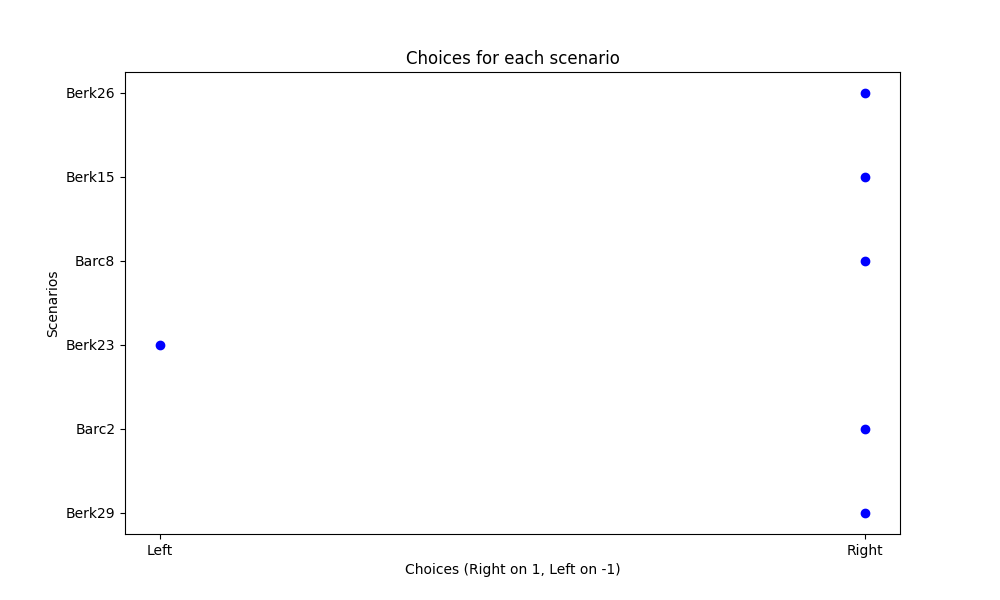
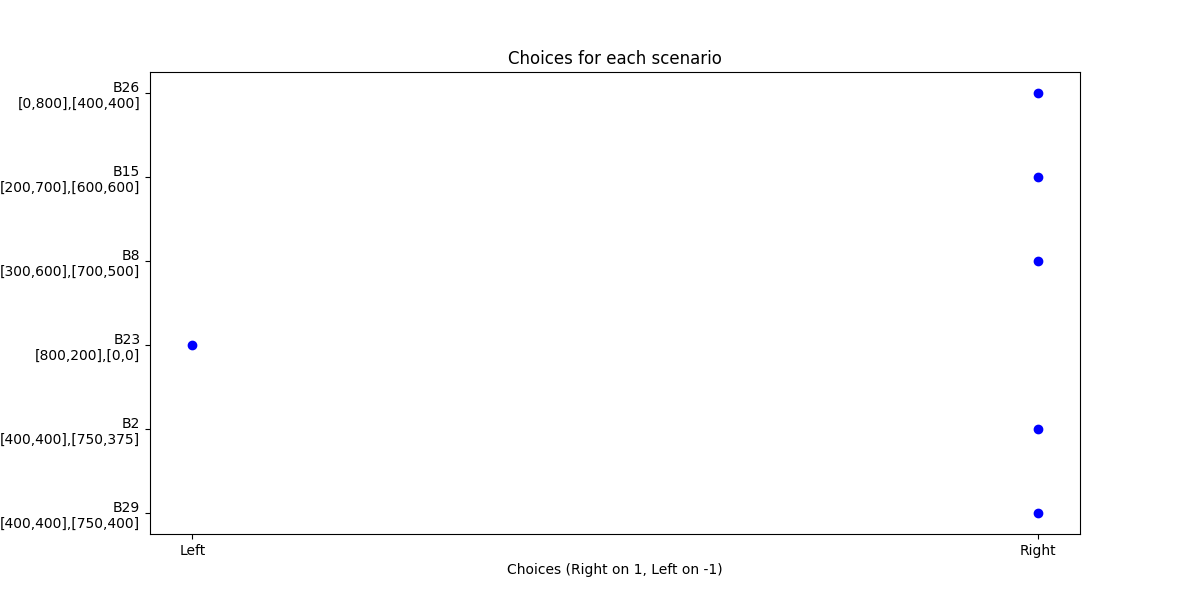
v1

diff --git a/economic_agents/charness_rabin.py b/economic_agents/charness_rabin.py
@@ -1,4 +1,4 @@
-from economic_agents.open_ai import OpenAI
+from .open_ai import OpenAI
 import matplotlib.pyplot as plt
 
 class CharnessRabin:
@@ -18,12 +18,12 @@ class CharnessRabin:
         ] 
         self.personality_choice = personality
         self.scenarios = {
-            f"Berk29_[{400},{400}]_[{750},{400}]": ((400, 400), (750, 400)),
-            f"Barc2_[{400},{400}]_[{750},{375}]": ((400, 400), (750, 375)),
-            f"Berk23_[{800},{200}]_[{0},{0}]": ((800, 200), (0, 0)),
-            f"Barc8_[{300},{600}]_[{700},{500}]": ((300, 600), (700, 500)),
-            f"Berk15_[{200},{700}]_[{600},{600}]": ((200, 700), (600, 600)),
-            f"Berk26_[{0},{800}]_[{400},{400}]": ((0, 800), (400, 400))
+            "B29\n[400,400],[750,400]": ((400, 400), (750, 400)),
+            "B2\n[400,400],[750,375]": ((400, 400), (750, 375)),
+            "B23\n[800,200],[0,0]": ((800, 200), (0, 0)),
+            "B8\n[300,600],[700,500]": ((300, 600), (700, 500)),
+            "B15\n[200,700],[600,600]": ((200, 700), (600, 600)),
+            "B26\n[0,800],[400,400]": ((0, 800), (400, 400))
         }
 
     def play(self):
@@ -47,7 +47,7 @@ class CharnessRabin:
     def create_plot(self, results):
         scenarios = list(results.keys())
         choices = [1 if choice == 'Right' else -1 for choice in results.values()]
-        plt.figure(figsize=(10, 6))
+        plt.figure(figsize=(12, 6))
         plt.scatter(choices, scenarios, color='blue')
         plt.xlabel('Choices (Right on 1, Left on -1)')
         plt.ylabel('Scenarios')
@@ -55,8 +55,7 @@ class CharnessRabin:
         plt.xticks([-1, 1], ['Left', 'Right'])
         plt.savefig('charness_rabin_plot.png')
 
-if __name__ == "__main__":
-    game = CharnessRabin("key", "gpt-3.5-turbo",0)
-    results = game.play()
-    print(results)
-    plot = game.create_plot(results)
+    def __call__(self):
+        results = self.play()
+        self.create_plot(results)
+        return results

diff --git a/experiments.py b/experiments.py
@@ -1,28 +1,4 @@
-scenarios = dict({
-    "Berk29": ((400, 400), (750, 400)),
-    "Barc2": ((400, 400), (750, 375)),
-    "Berk23": ((800, 200), (0, 0)),
-    "Barc8": ((300, 600), (700, 500)),
-    "Berk15": ((200, 700), (600, 600)),
-    "Berk26":((0, 800), (400, 400))
-    })
+import economic_agents
 
-def play():
-    #store results left/right
-    results = {}
-    #iter over all scenarios and send requests to openai
-    for scenario, allocations in scenarios.items():
-        left_a, left_b = allocations[0]
-        right_a, right_b = allocations[1]
-        print(scenario)
-        print(left_a)
-        print(left_b)
-        print(right_a)
-        print(right_b)
-        break
-
-
-
-
-
-play()
+game = economic_agents.CharnessRabin("sk-", "gpt-3.5-turbo", 0)
+results = game()

diff --git a/economic_agents/setup.py b/economic_agents/setup.py
@@ -1,0 +1,14 @@
+from setuptools import setup, find_packages
+
+setup(
+    name='economic_agents',
+    version='0.1',
+    description='A Python package for the paper "Large Language Models as Simulated Economic Agents: What Can We Learn from Homo Silicus?"',
+    author='Max Hager',
+    author_email='maxhager28@gmail.com',
+    packages=find_packages(),
+    install_requires=[
+        'openai',
+        'matplotlib'
+    ],
+)

diff --git a/economic_agents/open_ai.py b/economic_agents/open_ai.py
@@ -1,9 +1,4 @@
 import openai
-import logging 
-
-logging.basicConfig(level=logging.INFO, format='%(asctime)s - %(levelname)s - %(message)s')
-logger = logging.getLogger(__name__)
-
 
 class OpenAI:
     def __init__(self, key, model, temperature=0.0):

diff --git a/economic_agents/__init__.py b/economic_agents/__init__.py
@@ -1,0 +1,1 @@
+from .charness_rabin import CharnessRabin
